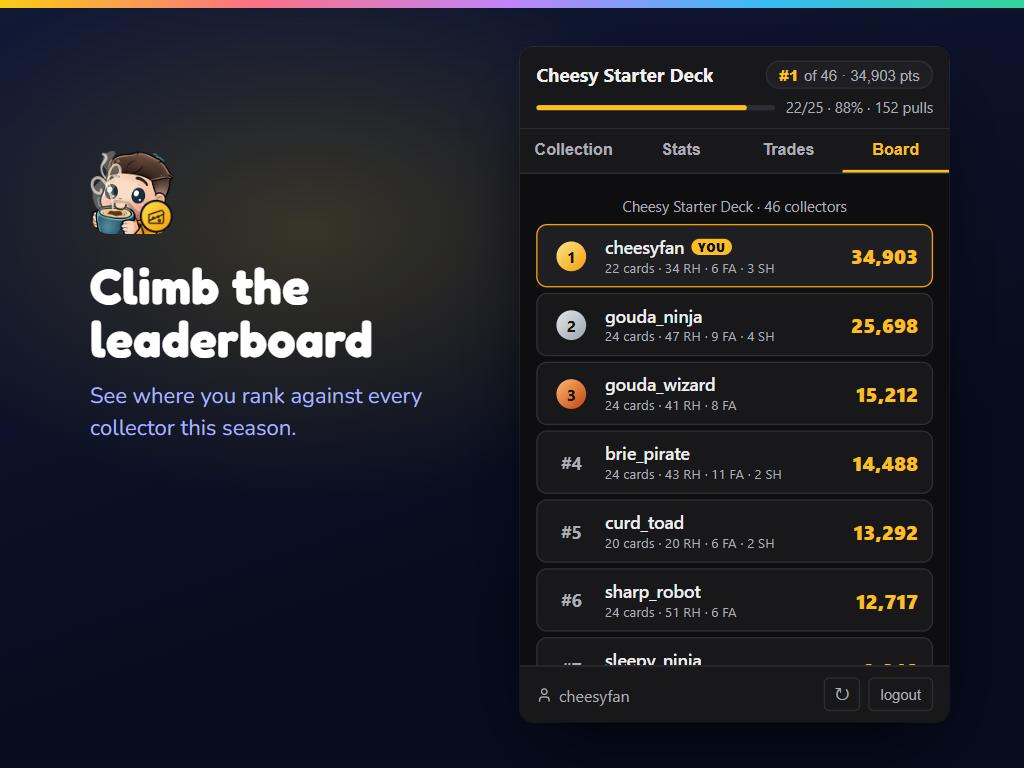
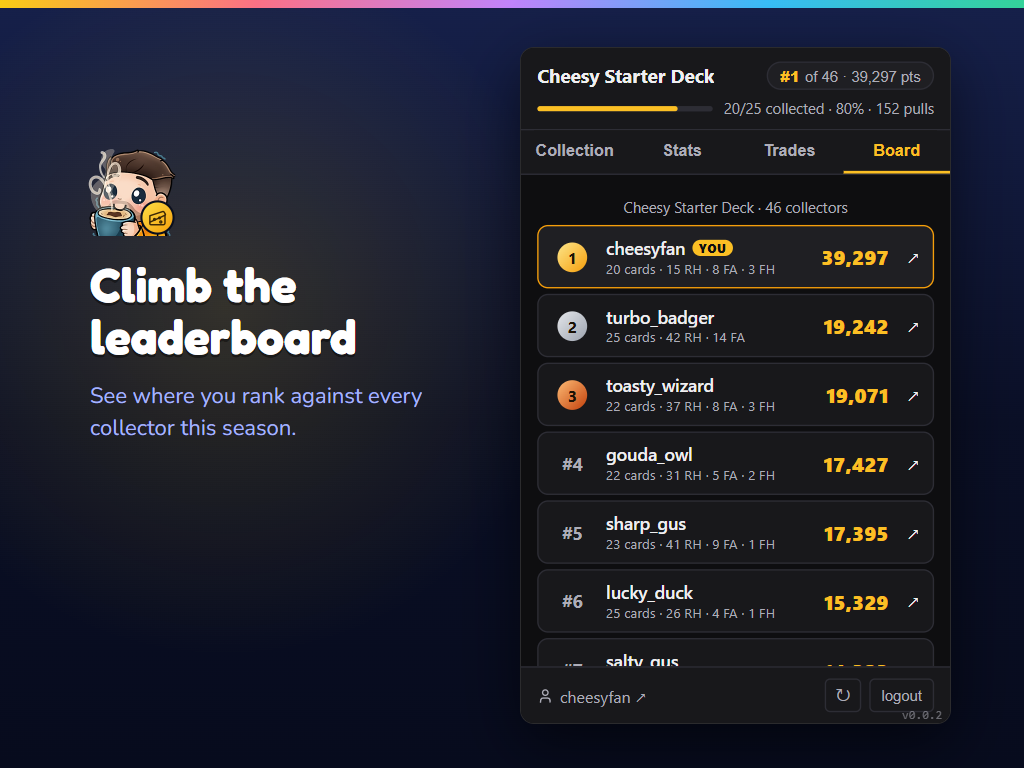
Twitch panel 0.0.2 screenshots

diff --git a/docs/twitch-extension.md b/docs/twitch-extension.md
@@ -10,7 +10,7 @@ Files live in `public/twitch-panel/`, served as static files from Vercel.
 
 **Hosted version zip**: Twitch serves the extension's front end from its own domain (`https://<client id>.ext-twitch.tv`) under a CSP, so the version's Asset Hosting zip is built, not copied: `node scripts/build-twitch-package.mjs` writes `twitch-extension/dist/cheesy-tcg-panel-v<version>.zip` (gitignored; builder and rules in `scripts/lib/twitch-package.mjs`, a dependency-free zip writer in `scripts/lib/zip.mjs`). It ships the three views, `config.js`, `panel.js`, `trades.js` and the two stylesheets at the zip root, minus the site analytics script and the fake Twitch helper, with Terms / Privacy linked absolutely, and `config.js` set to the site address; the build refuses a package with inline scripts, external scripts, site-relative paths, CSS that loads files, a fetch that skips `api()`, Twitch's helper script not loading first, or a stylesheet without the off-site marker rule (below). In `panel.js` every request goes through `api(path)` and card art URLs from the season response are made absolute (`absolutizeUrls`), both driven by `window.TCG_SITE` (empty in `public/twitch-panel/config.js`, which is right whenever the site serves the panel itself). The API answers the extension's cross-origin calls in `middleware.ts` (`/api/twitch/*` and `/api/version`: CORS only for `https://<id>.ext-twitch.tv` and the developer rig, plus `http://localhost:<port>` outside production). Add a new panel fetch with `api(...)` and a new image field named `...ImageUrl` / `...ThumbUrl`, or the package check fails or the art breaks when hosted. `scripts/check-twitch-package.mts` covers all of it.
 
-**Submission pack (`twitch-extension/`)**: everything for the review form. `SUBMISSION.md` has every text field (name, summary, details, allowlists, capabilities, change log, testing instructions, source-code note) with the limits checked, plus a pre-flight checklist and how to redo the assets. The images are `icon-100.png` (100x100, opaque), `discovery-300x200.png` (300x200, opaque) and five real 1024x768 panel screenshots in `screenshots/`. The app icon (home-screen icons, `public/apple-touch-icon*.png`, the Twitch icon and discovery art) is the mascot with a cheese-wedge badge from `scripts/lib/brand-icon.mjs`: `node scripts/make-pwa-icons.mjs` and `node scripts/make-twitch-assets.mjs` rebuild them. The screenshots come from a seeded sandbox (`scripts/seed-twitch-screenshots.mts`) and are captured as four tiles then joined (`scripts/stitch-screenshot-tiles.cjs`) because the browser pane only grabs 800x600. `scripts/check-twitch-assets.mts` verifies the sizes, opacity and text limits.
+**Submission pack (`twitch-extension/`)**: everything for the review form. `SUBMISSION.md` has every text field (name, summary, details, allowlists, capabilities, change log, testing instructions, source-code note) with the limits checked, plus a pre-flight checklist and how to redo the assets. The images are `icon-100.png` (100x100, opaque), `discovery-300x200.png` (300x200, opaque) and five real 1024x768 panel screenshots in `screenshots/`. The app icon (home-screen icons, `public/apple-touch-icon*.png`, the Twitch icon and discovery art) is the mascot with a cheese-wedge badge from `scripts/lib/brand-icon.mjs`: `node scripts/make-pwa-icons.mjs` and `node scripts/make-twitch-assets.mjs` rebuild them. The screenshots come from a seeded sandbox (`scripts/seed-twitch-screenshots.mts`) and are captured as whole 1024x768 images by headless Chrome over the DevTools Protocol (steps in `twitch-extension/SUBMISSION.md` section 5). `scripts/check-twitch-assets.mts` verifies the sizes, opacity and text limits.
 
 **Extension dashboard setup (dev.twitch.tv):**
 1. Create extension → type: Panel

diff --git a/twitch-extension/SUBMISSION.md b/twitch-extension/SUBMISSION.md
@@ -187,5 +187,7 @@ node scripts/make-pwa-icons.mjs         # the website's home-screen icons (same 
 The screenshots are real captures of the panel, framed on a branded 1024 x 768 backdrop. To redo them after the panel changes:
 
 1. Run the app against the mock database (see docs/local-dev.md) and seed a sandbox with a rich viewer, a crowd and some board listings: `npx tsx scripts/seed-twitch-screenshots.mts` (prints the sandbox id).
-2. Log in to the admin, enter that sandbox (which sets the signed `tcg_sandbox` cookie), and open the panel with the fake Twitch helper (`/twitch-panel/panel.html?mock=1&as=cheesyfan&share=1`) at 318 x 500, scaled 1.35x on a 1024 x 768 stage.
-3. The browser pane can only capture 800 x 600, so capture the stage as four lossless tiles (page scrolled to 0,0 / 224,0 / 0,168 / 224,168) with animations frozen, then join them: `node scripts/stitch-screenshot-tiles.cjs <out.png> <a> <b> <c> <d>`. The stitcher takes each pixel from exactly one tile, so animated card art never shows a seam.
+2. Start the dev server (`npx next dev -p 3111`; add `--webpack` from a git worktree, where Turbopack cannot follow the `node_modules` junction). Sign in as admin (`POST /api/auth/login`) and set the signed `tcg_sandbox` cookie for the sandbox from step 1 (`signSandboxId` in `lib/sandbox-token.ts`, with `SESSION_SECRET` set), which is what "enter the sandbox" does in the browser.
+3. Capture with headless Chrome driven over the DevTools Protocol, so each shot is one lossless 1024 x 768 image (no browser pane, no stitching): `chrome.exe --headless=new --remote-debugging-port=9333 --hide-scrollbars`, then over its WebSocket set the two cookies (`Network.setCookie`), `Emulation.setDeviceMetricsOverride` to 1024 x 768 at scale 1, and load a stage page: the branded backdrop (dark gradient, rainbow top bar, mascot, headline and one line of copy at the left) with the panel in an iframe at 318 x 500, scaled 1.35x, at left 520 / top 47, from `/twitch-panel/panel.html?mock=1&as=cheesyfan&share=1`. Serve the stage from another localhost port (same site, so the cookies are sent).
+4. Per shot, drive the panel by running JavaScript in the iframe's execution context: Collection (mark one edition a favourite first, through the card details), Onesiegidds' card details, the Stats tab, the Board tab, the Trades tab. Show the production version label (`v0.0.2`; the dev server would add its environment name). Before capturing, wait for the real content (no "Loading..."), `finish()` every finite animation and `pause()` the infinite ones (`document.getAnimations()`), then `Page.captureScreenshot`. Read each image: real content, no error text, the off-site arrow showing on links.
+5. `npx tsx scripts/check-twitch-assets.mts` checks the sizes. Stop the dev server and the mock KV, and delete `.env.local`, before committing.
